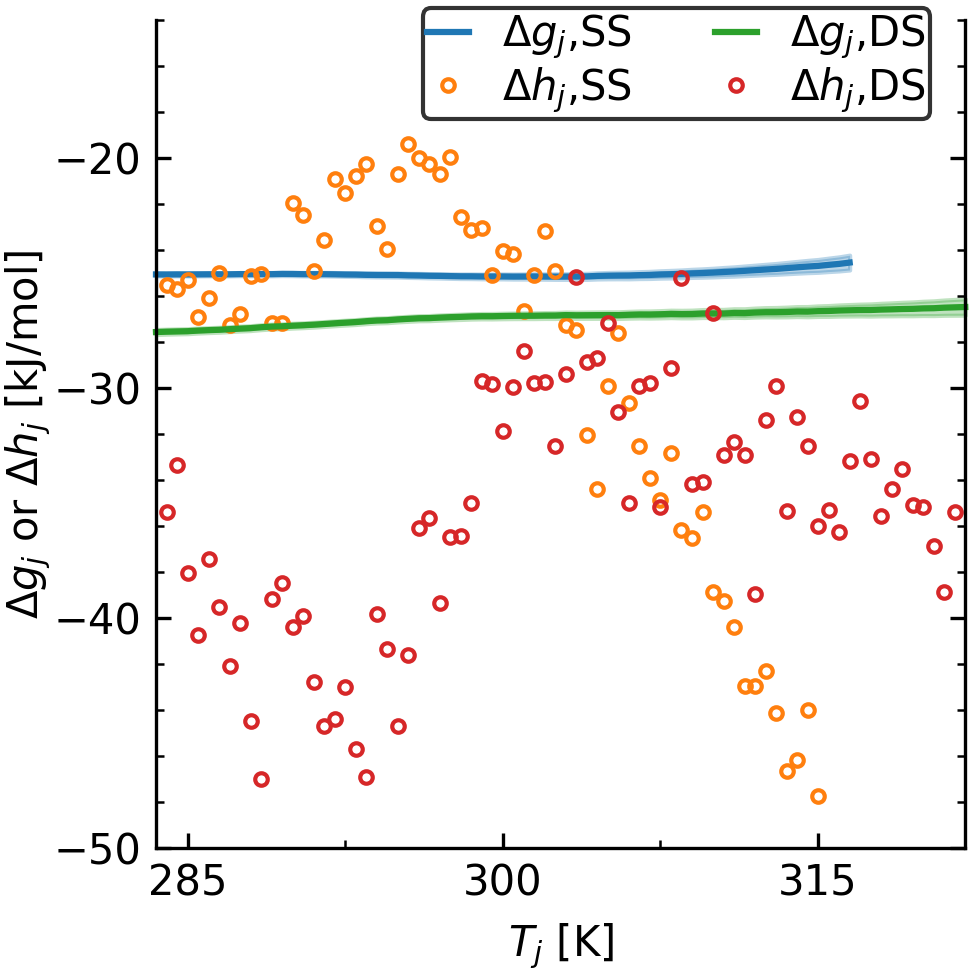
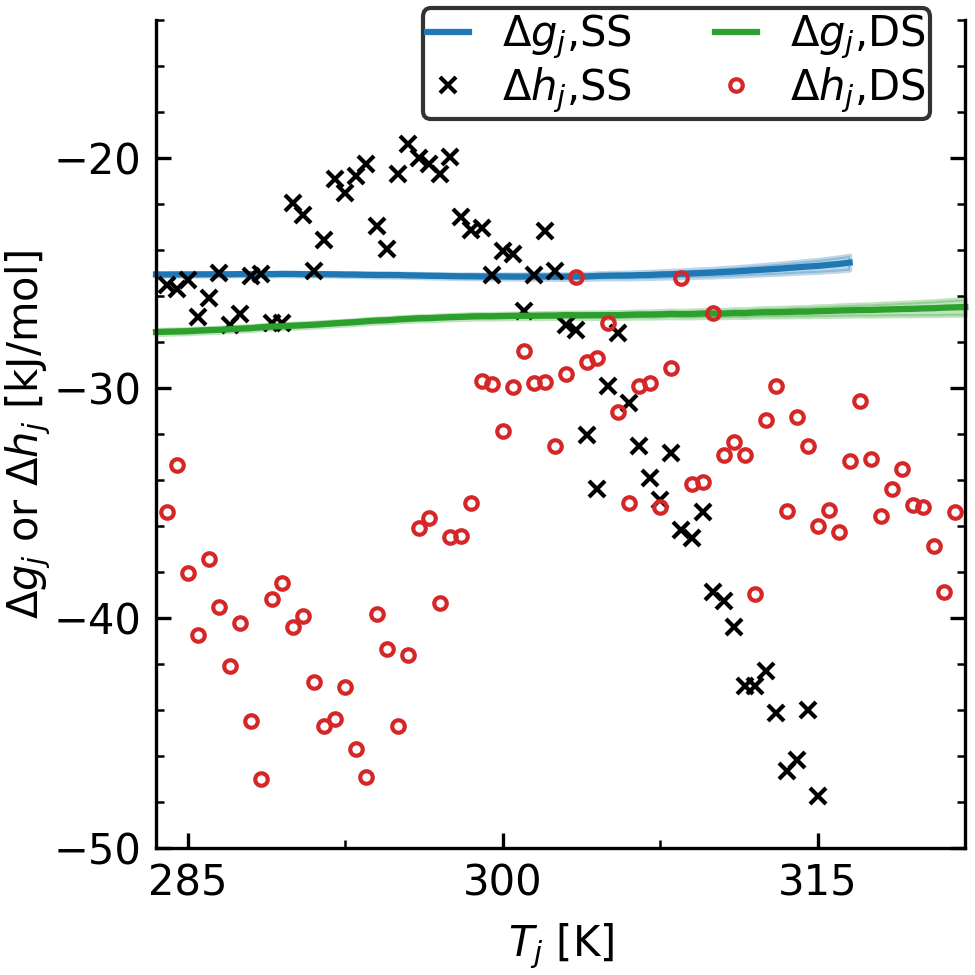
Update figure8

diff --git a/src/plot_params.py b/src/plot_params.py
@@ -68,7 +68,8 @@ def plot_figure8(SS, DS):
     ax.fill_between(SS.T, dg_SS - 3.*dg_std_SS, dg_SS + 3.*dg_std_SS, color='C0', alpha=0.3, clip_on=False)
 
     ax.plot(
-        SS.T[1:-1], dh_SS, '.', color='C1', mfc='None', label="$\\Delta h_j$,SS", clip_on=True ## NB!
+        SS.T[1:-1], dh_SS, 'x', color='black', markersize=4.,
+        mfc='None', label="$\\Delta h_j$,SS", clip_on=True ## NB!
     )
     # axes.fill_between(
     #     SS.T[1:-1], dh_SS - dh_std_SS, dh_SS + dh_std_SS, color='C1', alpha=0.3, clip_on=True ## NB!
